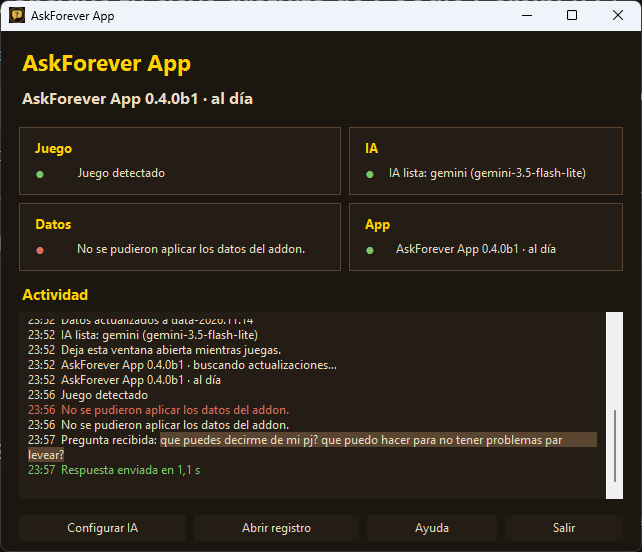
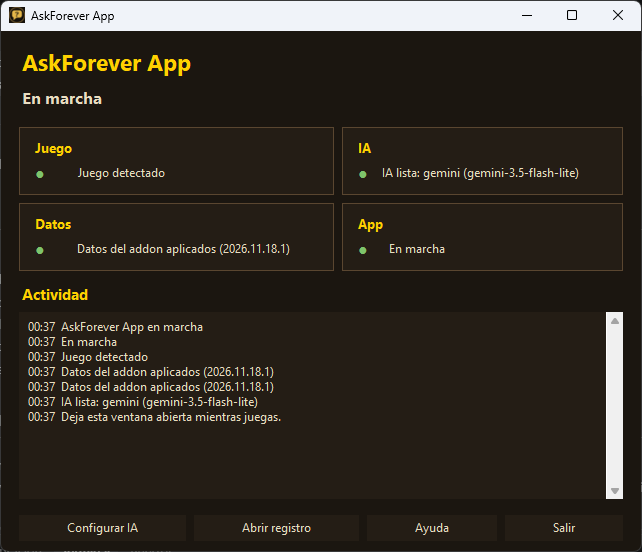
docs: app window screenshot with data applied and zone quests screenshot

diff --git a/docs/GUIA_INSTALACION.md b/docs/GUIA_INSTALACION.md
@@ -83,7 +83,9 @@ La lista de actividad muestra eventos recientes en lenguaje sencillo. **Abrir re
 2. Abre WoW Forever e inicia sesión.
 3. En el juego, escribe `/af` (o `/askforever`) en el chat del juego y pulsa Enter, o haz clic en el botón **AskForever** del minimapa. Se abre la ventana del chat de AskForever.
 4. Escribe tu pregunta en esa ventana y pulsa Enter. Por ejemplo: *¿Por dónde voy a Baldíos?*
-5. La respuesta aparece en la conversación de la ventana del addon, con párrafos y viñetas. Desplázate por la conversación con la rueda del ratón encima o con sus botones de flecha. Cambia el tamaño de la ventana del addon desde la esquina inferior derecha.
+5. La respuesta aparece en la conversación de la ventana del addon, con párrafos y viñetas.
+
+   ![Respuesta en la ventana del addon: misiones de tu zona](img/v0.4.0-chat-misiones.png) Desplázate por la conversación con la rueda del ratón encima o con sus botones de flecha. Cambia el tamaño de la ventana del addon desde la esquina inferior derecha.
 6. Para que funcione mejor, usa el modo de pantalla **Ventana** o **Pantalla completa (ventana)**. La pantalla completa exclusiva (la que ocupa toda la pantalla) puede impedir que aparezca la respuesta.
 
 ### Ventana y bandeja del sistema de AskForever App

diff --git a/docs/INSTALL_GUIDE.md b/docs/INSTALL_GUIDE.md
@@ -83,7 +83,9 @@ The activity list reports recent events in plain language. **Open log** opens th
 2. Start WoW Forever and log in.
 3. In the game, type `/af` (or `/askforever`) in the game chat and press Enter, or click the **AskForever** button on the minimap. The AskForever chat window opens.
 4. Type your question in that window and press Enter. For example: *How do I get to The Barrens?*
-5. The answer appears in the conversation of the addon window, with paragraphs and bullets. Scroll the conversation with the mouse wheel over it or use its arrow buttons. Resize the addon window from its bottom-right corner.
+5. The answer appears in the conversation of the addon window, with paragraphs and bullets.
+
+   ![Answer in the addon window: quests of your zone](img/v0.4.0-chat-misiones.png) Scroll the conversation with the mouse wheel over it or use its arrow buttons. Resize the addon window from its bottom-right corner.
 6. For the best result, use the **Windowed** or **Windowed (Fullscreen)** display mode. Exclusive fullscreen (the mode that takes over the whole screen) may prevent the answer from appearing.
 
 ### AskForever App window and system tray

diff --git a/README.md b/README.md
@@ -23,6 +23,8 @@ AskForever knows your level, faction and zone, uses verified data from the game 
 
 ![A complete build, one line per talent tree](docs/img/v0.4.0-chat-build.png)
 
+![Quests of your zone for your level, with who gives them and where](docs/img/v0.4.0-chat-misiones.png)
+
 ![AskForever App window](docs/img/v0.4.0-app-ventana.png)
 
 ### Status
@@ -67,6 +69,8 @@ AskForever conoce tu nivel, facción y zona, usa datos verificados de la base de
 ![Consejos para tu personaje, en la ventana del addon](docs/img/v0.4.0-chat-consejos.png)
 
 ![Una build completa, una línea por rama de talentos](docs/img/v0.4.0-chat-build.png)
+
+![Misiones de tu zona para tu nivel, con quién las da y dónde](docs/img/v0.4.0-chat-misiones.png)
 
 ![Ventana de AskForever App](docs/img/v0.4.0-app-ventana.png)
 
